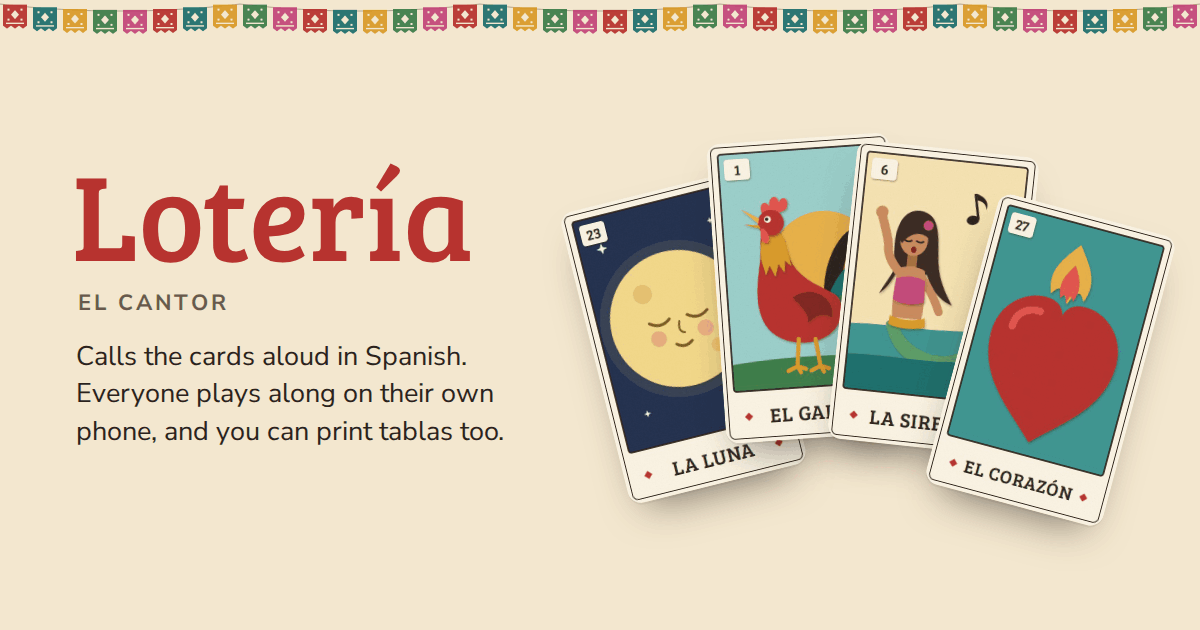
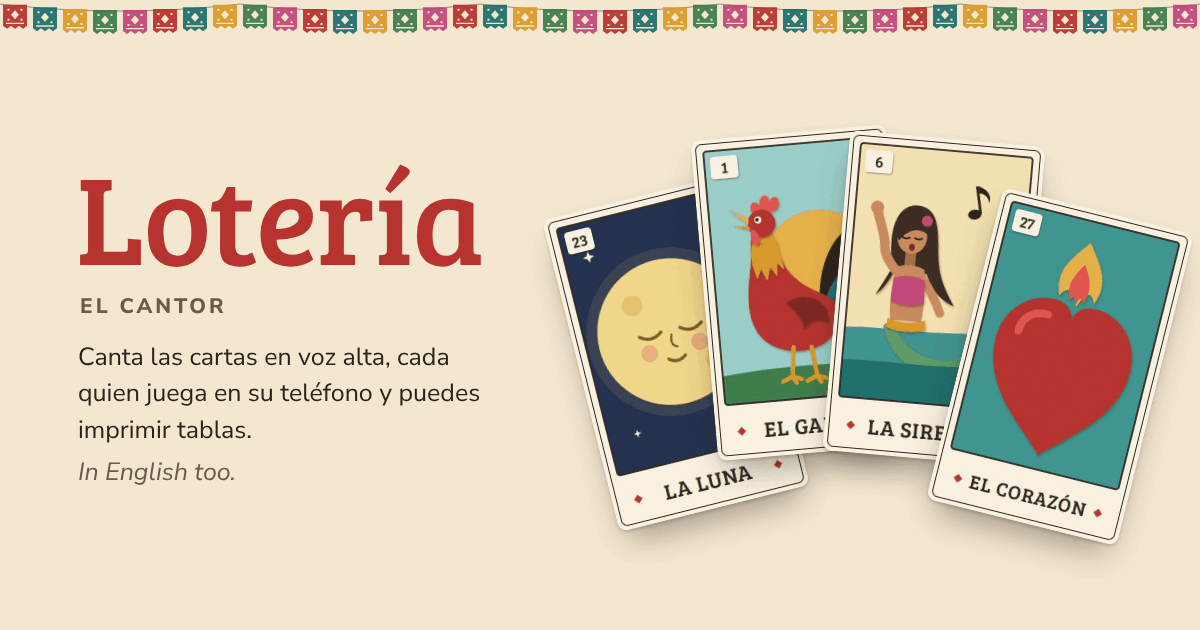
Put the link preview in Spanish first, and draw og.png with the other pictures
A chat app shows a link's title, line and picture without knowing the phone's language, and El Cantor's were in
English, with the English line drawn into og.png by no tool in the repo. The home page's line is now "Canta las
cartas en voz alta, cada quien juega en su teléfono y puedes imprimir tablas. In English too.", the other pages'
lines follow it (with My tablas' and Make tablas' Spanish names in their titles), and tools/screenshots.mjs now
draws og.png from the home screen's banderitas, the repo's fonts, that line and four of the cards, so it can be
drawn again the same way when they change. Mark answered yes to a Spanish-first preview.

Claude-Session: https://claude.ai/code/session_01ED8qSJ5rwr7MSBSyqVyxwc

diff --git a/board.html b/board.html
@@ -16,8 +16,8 @@
 <link rel="apple-touch-icon" href="icon-180.png">
 <title>Lotería · My tablas</title>
 <meta name="description" content="Play lotería along with El Cantor on your own phone: tap the card that was called and it marks itself, with a cheer when you win.">
-<meta property="og:title" content="Lotería · My tablas">
-<meta property="og:description" content="Your tablas on your own phone: tap the card that was called and it marks itself.">
+<meta property="og:title" content="Lotería · Mis tablas">
+<meta property="og:description" content="Tus tablas en tu propio teléfono: toca la carta que cantaron y se marca sola. In English too.">
 <meta property="og:image" content="https://el-cantor.junkdrawer.works/og.png">
 <meta property="og:url" content="https://el-cantor.junkdrawer.works/board.html">
 <meta name="twitter:card" content="summary_large_image">

diff --git a/print.html b/print.html
@@ -13,8 +13,8 @@
 <link rel="apple-touch-icon" href="icon-180.png">
 <title>Lotería · Make tablas</title>
 <meta name="description" content="Make your own lotería tablas: drag and drop cards onto them, doubles and all, and print them 1, 2 or 4 to a page.">
-<meta property="og:title" content="Lotería · Make tablas">
-<meta property="og:description" content="Drag and drop cards onto your own tablas, and print them 1, 2 or 4 to a page.">
+<meta property="og:title" content="Lotería · Hacer tablas">
+<meta property="og:description" content="Arrastra cartas a tus propias tablas e imprímelas de 1, 2 o 4 por hoja. In English too.">
 <meta property="og:image" content="https://el-cantor.junkdrawer.works/og.png">
 <meta property="og:url" content="https://el-cantor.junkdrawer.works/print.html">
 <meta name="twitter:card" content="summary_large_image">

diff --git a/index.html b/index.html
@@ -17,7 +17,7 @@
 <title>Lotería</title>
 <meta name="description" content="Lotería for the family table: El Cantor calls the cards aloud in Spanish, My tablas lets everyone play along on their own phone, and Make tablas prints them.">
 <meta property="og:title" content="Lotería">
-<meta property="og:description" content="El Cantor calls the cards aloud in Spanish, everyone plays along on their own phone, and you can print tablas too.">
+<meta property="og:description" content="Canta las cartas en voz alta, cada quien juega en su teléfono y puedes imprimir tablas. In English too.">
 <meta property="og:image" content="https://el-cantor.junkdrawer.works/og.png">
 <meta property="og:url" content="https://el-cantor.junkdrawer.works/">
 <meta name="twitter:card" content="summary_large_image">

diff --git a/cantor.html b/cantor.html
@@ -17,7 +17,7 @@
 <title>El Cantor</title>
 <meta name="description" content="El Cantor shuffles the lotería deck and calls each card aloud in Spanish, and checks a ¡Lotería! when someone calls it.">
 <meta property="og:title" content="El Cantor">
-<meta property="og:description" content="Shuffles the deck and calls each card aloud in Spanish, for the phone or tablet at the head of the table.">
+<meta property="og:description" content="Baraja las cartas y canta cada una en voz alta, desde el teléfono o la tableta en la cabecera de la mesa. In English too.">
 <meta property="og:image" content="https://el-cantor.junkdrawer.works/og.png">
 <meta property="og:url" content="https://el-cantor.junkdrawer.works/cantor.html">
 <meta name="twitter:card" content="summary_large_image">

diff --git a/sw.js b/sw.js
@@ -9,7 +9,7 @@
 // fingerprint of every file in SHELL and CARDS: change any of them, a card picture included, and test/e2e.mjs fails
 // until FILES is changed to match (it says what to), which changes this file, so every copy is made whole again at once.
 const CACHE = 'el-cantor-v3'; // bump the number when the file list changes
-const FILES = 'a2530adc'; // test/e2e.mjs checks this
+const FILES = '66575237'; // test/e2e.mjs checks this
 const SHELL = [
   './', 'index.html', 'carry.js', 'strings.js', 'cantor.html', 'board.html', 'print.html', 'deck.js', 'sync.js',
   'icon.svg', 'icon-180.png', 'icon-192.png', 'manifest.webmanifest', 'audio/voices.json',

diff --git a/README.md b/README.md
@@ -24,7 +24,7 @@ The home screen has three choices:
 
 Every page has a ⌂ button back to the home screen. They all load the same `deck.js` and card images.
 
-**English or Español.** The home screen has an **English | Español** switch, and so do the top of Settings in El Cantor and My tablas and the foot of Make tablas. A device's first visit to My tablas has it too, at the foot of who's playing and of a shared link's offer: the offer comes back in the new language with the same tablas, and a name already typed stays. The choice is kept on each device (it doesn't go to Google Drive), and a phone or computer set to Spanish starts in Español. All three tools follow it, and so do the tablas El Cantor prints and what Google Drive saving says, dates included. The card names, the verses and the recorded voices are Spanish either way.
+**English or Español.** The home screen has an **English | Español** switch, and so do the top of Settings in El Cantor and My tablas and the foot of Make tablas. A device's first visit to My tablas has it too, at the foot of who's playing and of a shared link's offer: the offer comes back in the new language with the same tablas, and a name already typed stays. The choice is kept on each device (it doesn't go to Google Drive), and a phone or computer set to Spanish starts in Español. All three tools follow it, and so do the tablas El Cantor prints and what Google Drive saving says, dates included. The card names, the verses and the recorded voices are Spanish either way. A link texted to someone shows its preview in Spanish first, with "In English too.", since a chat app can't know which language the phone is set to.
 
 ## How it plays
 
@@ -99,7 +99,7 @@ It's a static site: plain HTML, CSS and JavaScript, with no build step. It runs 
 npx serve .                   # or any static file server, then open the printed address
 npm test                      # checks the game's logic, then uses the three tools in Chromium through the real pages (needs Playwright)
 npm install                   # once, for the screenshots
-node tools/screenshots.mjs    # redraws the pictures in docs/
+node tools/screenshots.mjs    # redraws the pictures in docs/ and og.png, the link preview
 node tools/make-icons.mjs     # redraws the PNG icons from icon.svg
 ```
 
@@ -127,7 +127,7 @@ To put it online with GitHub Pages: **Settings → Pages → Build and deploymen
   - One clip per card: the verse, a breath, the name. Plus the opening line and ¡Lotería!
   - `voices.json` lists the voices and where each verse ends, so Adivinanza can stop before the name.
 - `tools/make_voices.py` — renders `audio/` with [Kokoro-82M](https://github.com/hexgrad/kokoro) (Apache-2.0), using espeak-ng's Latin American Spanish for pronunciation. Rerun it after changing a verse in `deck.js`; the usage is at the top of the script.
-- `tools/screenshots.mjs` — draws the pictures in `docs/`, with each tool opened on the same saved tablas every time. It saves them with 256 colours using upng-js, from `npm install`.
+- `tools/screenshots.mjs` — draws the pictures in `docs/`, with each tool opened on the same saved tablas every time, and `og.png`, the link preview, from the home screen's banderitas, the line in `index.html`'s `og:description` and four of the cards. Run it again when the cards, that line or the look change. It saves them with 256 colours using upng-js, from `npm install`.
 - `test/logic.mjs` — what `npm test` runs first, in a few seconds and with no browser: the juegos' rules across many names (16 different cards, no two tablas alike, the deck dealt out evenly, no Clásico four printed twice), every winning shape checked against the rules with doubles, when a printed tabla first won, the random tablas' rules, and the shuffle's fairness.
 - `test/e2e.mjs` — what `npm test` runs next: El Cantor, My tablas and Make tablas used through the real pages in Chromium, El Cantor's PDFs read back card by card, a recorded voice calling a round, two devices saving to a stand-in Google Drive (`test/fake-google.mjs`), the first visit bringing tablas from the old address, every page offline, and the words: each one in English and Spanish, and the screens in Spanish swept for English left behind. It runs Chromium in US English, whatever the computer's language, and so does `tools/screenshots.mjs`.
 
